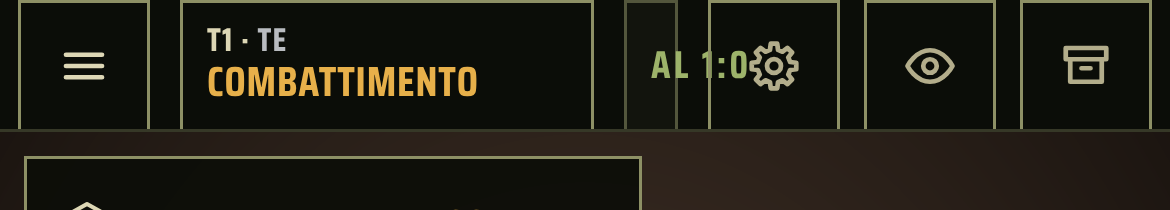
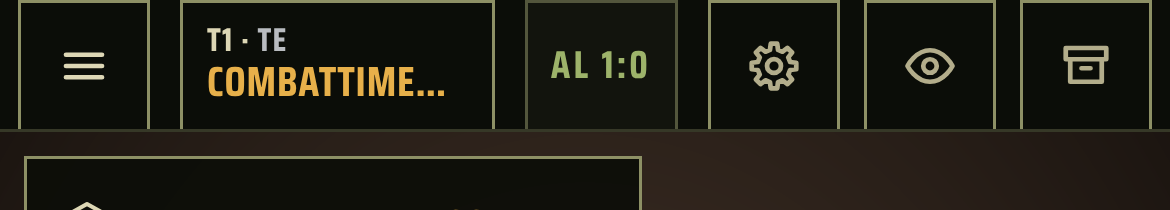
Phone: the victory chip is a whole box with its text inside, and a long step name stays in its pill (owner's issue #21); pictures at 390 and 360 px
Claude-Session: https://claude.ai/code/session_01ME3JNWPCjyD5txMyWoKnu2

Changed region(s): [[0.4615, 0.2286, 0.6462, 0.4], [0.3385, 0.3143, 0.4308, 0.4571], [0.4, 0.0, 0.5538, 0.0286]]

diff --git a/web/src/css/top-bar.css b/web/src/css/top-bar.css
@@ -293,7 +293,6 @@ body:has(#ui .c-table) .c-bar.t .vps {
 } /* phones: the step pill gets the room ("you both" is only on developer tables) */
 /* Nuts! and Nafakh: who would win now, in the VP bar's place (owner's issue #21, approved mockup) */
 .c-bar.t .vps.place {
-  container-type: inline-size;
   font: 600 12px var(--sfd);
   letter-spacing: 0.06em;
   text-transform: uppercase;
@@ -392,8 +391,28 @@ body:has(#ui .c-table) .c-bar.t .vps {
     display: none;
   }
 }
+@media (min-width: 701px) {
+  .c-bar.t .vps.place {
+    container-type: inline-size; /* not on the phone: it would shrink the chip to nothing */
+  }
+}
 @container (max-width: 600px) {
   .vps.place .k {
     display: none;
+  }
+}
+/* phone: a long step name (Italian COMBATTIMENTO) stays inside its pill, never under the score chip (owner's issue #21) */
+@media (max-width: 700px) {
+  .phpill {
+    overflow: hidden;
+  }
+  .phpill .tt,
+  .phpill .stp {
+    display: block;
+    max-width: 100%;
+    min-width: 0;
+    overflow: hidden;
+    text-overflow: ellipsis;
+    white-space: nowrap;
   }
 }
